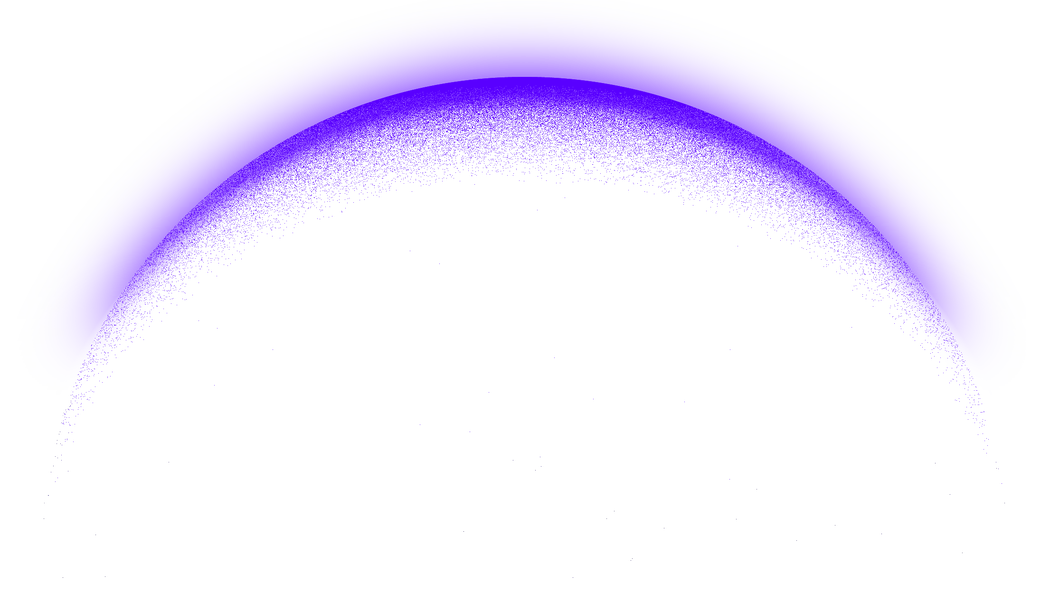
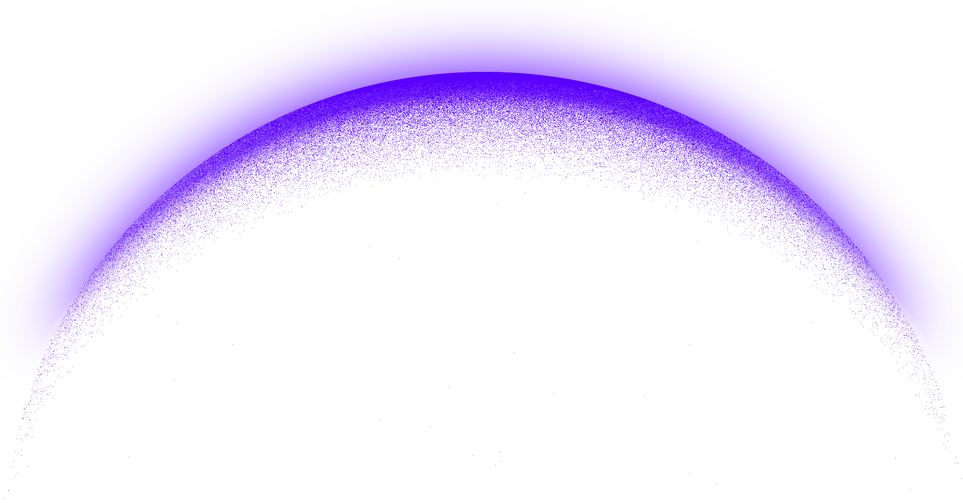
Profile desktop e mobile ok

Changed region(s): [[0.0312, 0.1193, 0.9657, 0.7455], [0.0312, 0.7753, 0.0623, 0.8052]]

diff --git a/assets/css/style.css b/assets/css/style.css
@@ -3,12 +3,22 @@ RESET
 ========================================================= */
 
 *{
+  /* outline:1px solid red; */
   margin:0;
   padding:0;
   box-sizing:border-box;
 }
 
-html{
+/* html,
+body{
+  overflow-x:auto;
+} */
+
+html,
+body{
+  width:100%;
+  max-width:100%;
+  overflow-x:clip;
   scroll-behavior:smooth;
 }
 
@@ -41,15 +51,16 @@ html{
 body{
   /* background:rgb(7, 0, 20); */
   background: black;
+  width:100%;
   /* position: relative; */
-  overflow-x:hidden;
+  /* overflow-x:hidden; */
   font-family:var(--font1);
   min-height: 100vh;
 }
 
 
 
-body::before {
+/* body::before {
   content: "";
   position: fixed;
   inset: 0;
@@ -63,7 +74,7 @@ body::before {
 
   pointer-events: none;
   z-index: -1000;
-}
+} */
 
 /* =========================================================
 HEADER
@@ -118,22 +129,21 @@ HERO
  * GRID BG
  * ============================================================ */
 
-.grid-bg{
+/* .grid-bg{
   position: fixed;
   inset: 0;
 
   background-image:
-    linear-gradient(rgba(89, 0, 255, 0.4) 1px, transparent 1px),
+    linear-gradient(rgba(89, 0, 255, 0.3) 1px, transparent 1px),
     linear-gradient(90deg, rgba(89,0,255,0.3) 1px, transparent 1px);
-  
+
   background-size: 1.6rem 1.6rem;
-  
+
   transform: perspective(1200px) rotateX(70deg) scale(2);
 
   pointer-events: none;
   z-index: -1;
 
-  /* fade nas bordas */
   mask-image:
     radial-gradient(circle at center,
       black 45%,
@@ -145,13 +155,12 @@ HERO
       transparent 100%);
 
   opacity: .9;
-  
-}
+} */
 
-.noise-bg{
+/* .noise-bg{
   background-image: url(../img/noise.gif);
   background-repeat: repeat;
-}
+} */
 
 
 /* .teste{
@@ -494,13 +503,11 @@ EFEITO CHOQUE
 }
 
 /* ----------------- *	CTA PROJETOS	* ----------------- */ 
- 
-
-
 
 .button-cta{
   display: flex;
   justify-content: center;
+  margin: 5rem 0;
 }
 
 .cta{
@@ -592,32 +599,43 @@ NAV DESKTOP
   display: flex;
   flex-direction: column;
   margin: auto;
+  margin-top: 3rem;
   width: 90vw;
 }
 
+
 .moon img{
-  margin-top: 4rem;
-  width: 126%;
+  margin: auto;
+  width:100%;
+  display:block;
   transform:
-    translateX(-3rem)
-    translateY(0rem);
+    scale(1.1)
+
+    /* translateX(-8%); */
 }
 
  .name img{
-  position: relative;
-  width: 110%;
+  margin: auto;
+  /* margin-bottom: 10rem;x */
+  width:95%;
+  display:block;
   transform:
-    translateX(-1rem)
-    translateY(-6rem);
- }
+    /* scale(1.35) */
+    /* translateX(4.5%) */
+    translateY(-10%);
+
+  /* transform:
+    scale(1.1)
+    translateX(-2%); */
+}
 
 /* ============================================================ 
  * SESSAO PROFILE MOBILE
  * ============================================================ */
 .profile-container{
   margin: auto;
-  max-width: 100vw;
-  margin-top: 15rem;
+  max-width: 100%;
+  /* margin-top: 15rem; */
 }
 
  #profile{
@@ -651,7 +669,7 @@ NAV DESKTOP
 }
 
 .tagline p{
-  padding: 0 1rem;
+  padding: 0 1rem 2rem 1rem;
   font-size: var(--text-size);
   font-family: var(--text);
   /* background-color: #ffa4e1; */
@@ -730,28 +748,24 @@ NAV DESKTOP
 } */
 
 .photo-triangle{
-  width: 100%;
   position: relative;
-  /* width: clamp(40rem, 64vw, 84rem); */
-  justify-self: start;
-  align-self: center;
-  z-index: 1;
 }
 
 .photo-triangle img{
-  justify-self: center;
-  transform: 
-    translateX(1.5rem)
-    translateY(-.5rem);
-  width: 140%;
-  height: auto;
-  display: block;
+  width:100%;
+  display:block;
+
+  transform:
+    scale(1.3)
+    /* translateX(4.5%) */
+    translateY(15%);
 }
+
 
 .bio{
   grid-area: bio;
   align-self: center;
-  padding: .8rem 0;
+  padding: 8rem 0;
   /* padding-left: 4rem; */
 }
 
@@ -796,6 +810,13 @@ BREAKPOINT 780px DESKTOP
 ========================================================= */
 
 @media(min-width:768px){
+
+  .hero img{
+  width:100%;
+  max-width:80rem;
+  display:block;
+  padding-bottom: 2rem;
+}
 
   .grid-bg{
   background-size: 4rem 4rem;
@@ -921,7 +942,7 @@ CHOQUE DESKTOP
   display: flex;
   margin: auto;
   max-width: 100rem;
-  margin-top: 15rem;
+  margin-top: 5rem;
 }
 
  #profile{
@@ -1015,13 +1036,13 @@ CHOQUE DESKTOP
   grid-area: photo;
   grid-row: 1 / 3;
   grid-column: 1/3;
-  width: clamp(36rem, 43.3333vw + 23.0542rem, 62rem);
+  width: clamp(17rem, 28.5714vw + 11.2857rem, 37rem);
   /* width: clamp(40rem, 64vw, 84rem); */
   justify-self: start;
   align-self: center;
   transform: 
-    translateX(-9rem)
-    translateY(11rem);;
+    translateX(-1rem)
+    translateY(20%);
   z-index: 1;
 }
 
@@ -1033,9 +1054,7 @@ CHOQUE DESKTOP
 
 .bio{
   grid-area: bio;
-  align-self: center;
-  padding: 4rem 0;
-  padding-left: 4rem;
+  padding: 0;
 }
 
 .bio p{

diff --git a/index.html b/index.html
@@ -261,11 +261,11 @@ MAIN
 
       <source
         media="(max-width: 768px)"
-        srcset="assets/img/name/mobile/name-glow-mob.webp"
+        srcset="assets/img/name/mobile/nomes-mob.webp"
       >
 
       <img
-        src="assets/img/name/desktop/name-glow.webp"
+        src="assets/img/name/desktop/name-total.webp"
         alt="Nome: Diego Uzai, em efeito synthwave cromado"
       >
 
@@ -318,7 +318,7 @@ MAIN
         </h2>
       </div> -->
       <div class="photo-triangle">
-        <img src="assets/img/profile/triangle.webp" alt="Imagem de Diego dentro de um neon rosa em formato de triângulo e cercado por fumaça roxa.">
+        <img src="assets/img/profile/x.webp" alt="Imagem de Diego dentro de um neon rosa em formato de triângulo e cercado por fumaça roxa.">
       </div>
       <article class="bio">
         <p>Trabalho com design há 16 anos. Entre idas e vindas, sempre acabo voltando para o que realmente gosto de fazer.